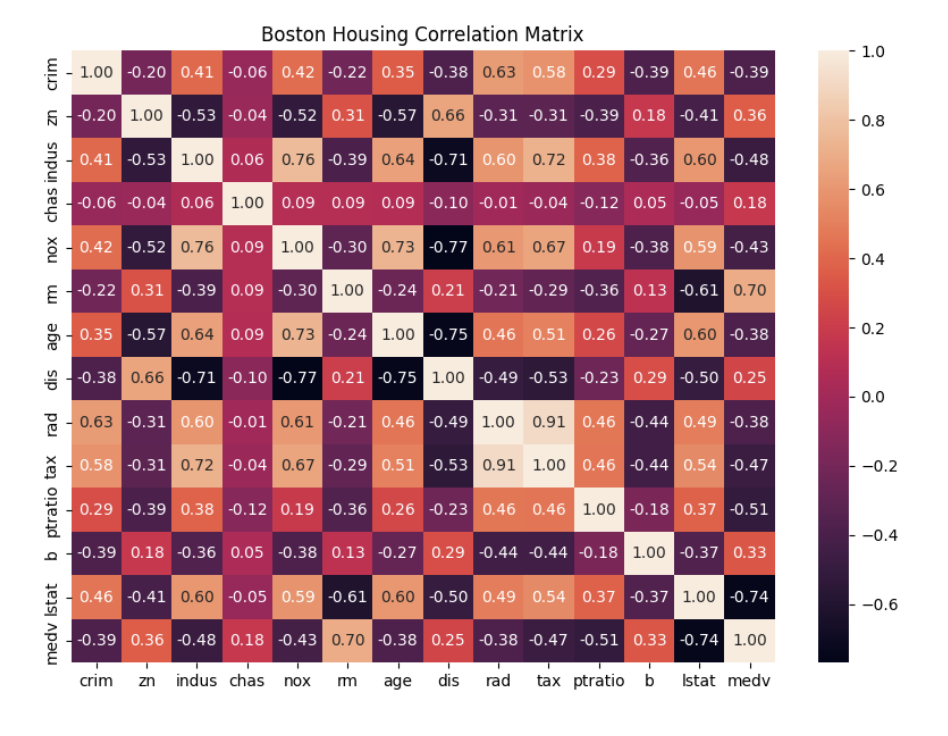
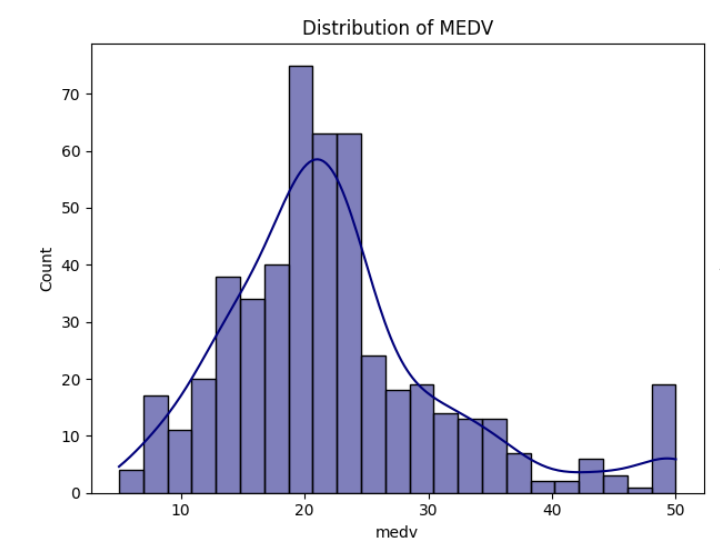
prepare portfolio deployment

diff --git a/js/projects.js b/js/projects.js
@@ -69,7 +69,7 @@ window.projects = [
       "Regression"
     ],
 
-    thumbnail: "",
+    thumbnail: "assets/images/boston-housing-thumbnail.png",
 
     github: "",
     colab: "",